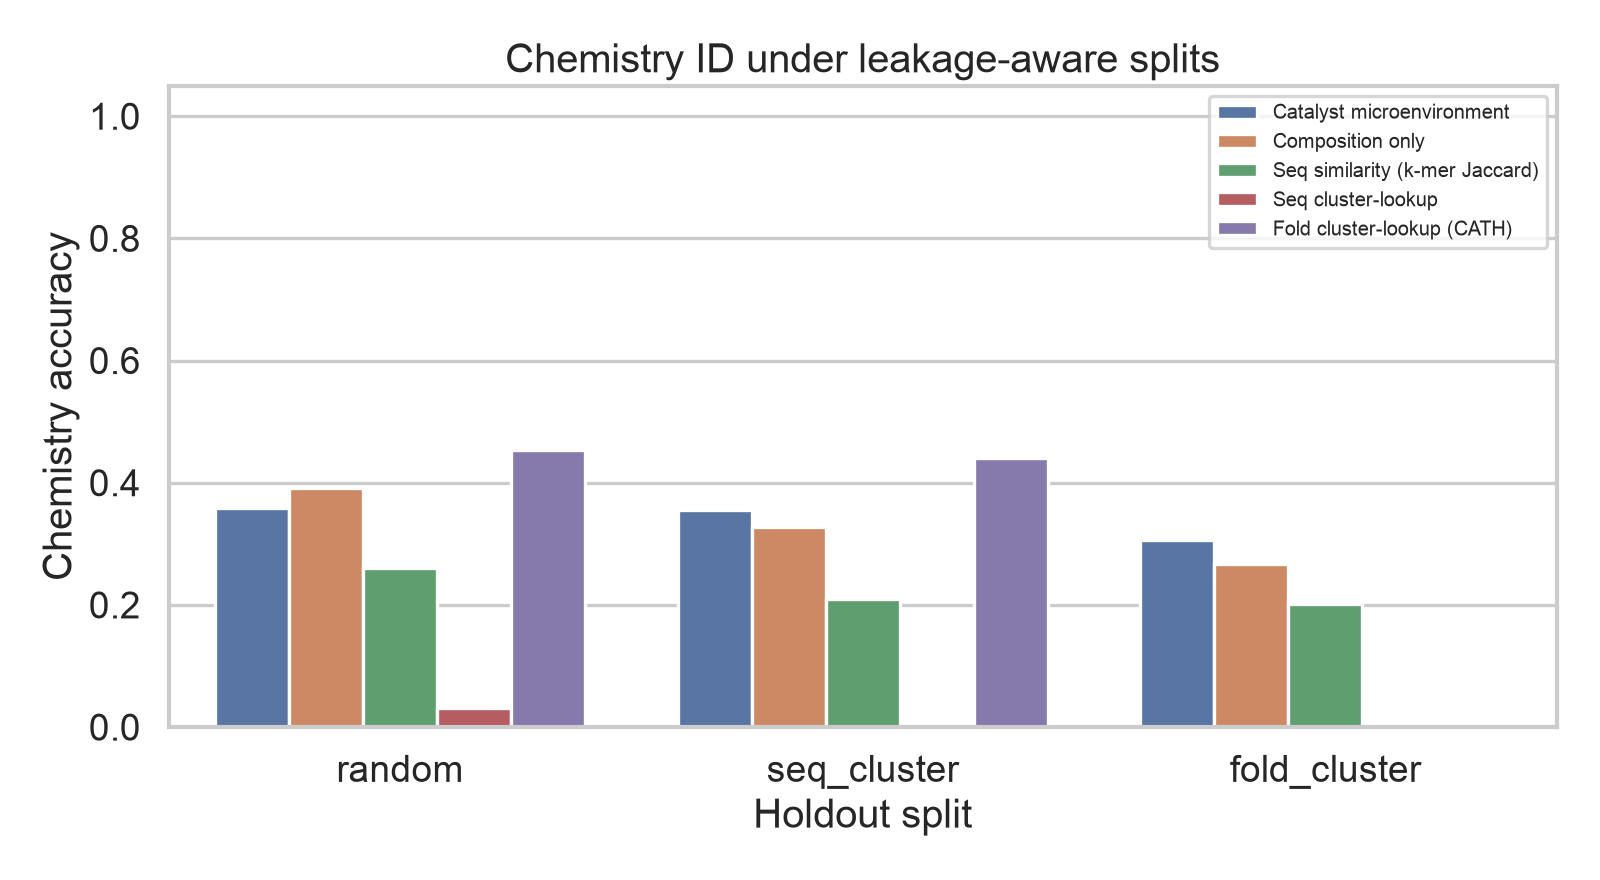
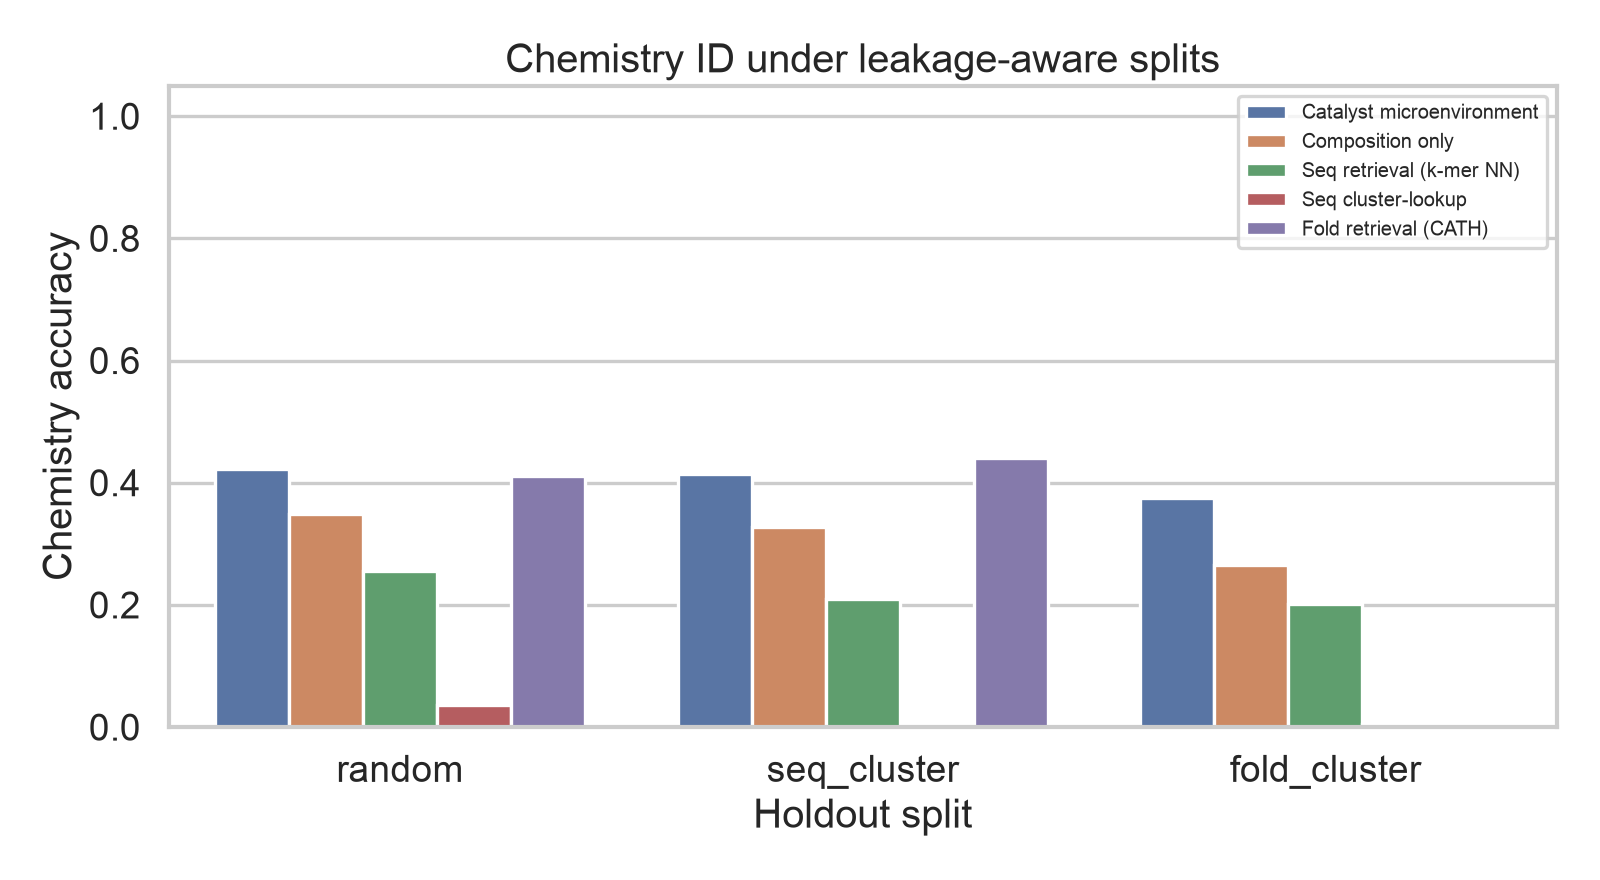
testing

diff --git a/tests/test_external_baselines.py b/tests/test_external_baselines.py
@@ -1,0 +1,39 @@
+"""Unit tests for retrieval chemistry transfer (no mmseqs/foldseek required)."""
+
+from __future__ import annotations
+
+import numpy as np
+import pandas as pd
+
+from catalyst_atlas.eval.external_baselines import retrieval_chemistry_transfer, tool_status
+
+
+def test_tool_status_keys():
+    status = tool_status()
+    assert "mmseqs" in status
+    assert "foldseek" in status
+
+
+def test_retrieval_chemistry_transfer():
+    meta = pd.DataFrame(
+        {
+            "enzyme_id": ["A", "B", "C", "D"],
+            "chemistry_family": ["hydrolysis", "hydrolysis", "transfer", "transfer"],
+        }
+    )
+    hits = pd.DataFrame(
+        {
+            "query": ["C", "C", "D"],
+            "target": ["A", "B", "B"],
+            "score": [10.0, 50.0, 5.0],
+        }
+    )
+    train_idx = np.array([0, 1])
+    test_idx = np.array([2, 3])
+    preds = retrieval_chemistry_transfer(
+        hits, meta, train_idx, test_idx, label_col="chemistry_family"
+    )
+    # C → best train hit B (score 50) → hydrolysis
+    assert preds[0] == "hydrolysis"
+    # D → best train hit B → hydrolysis
+    assert preds[1] == "hydrolysis"

diff --git a/tests/test_mcsa_structures.py b/tests/test_mcsa_structures.py
@@ -35,17 +35,47 @@ def test_build_site_from_structure():
         {"chain": "A", "resnum": 35, "aa": "H"},
         {"chain": "A", "resnum": 60, "aa": "S"},
     ]
-    catalytic, neighbors = build_site_from_structure(_MINI_PDB, specs)
+    catalytic, neighbors, ligands, tags = build_site_from_structure(_MINI_PDB, specs)
     assert len(catalytic) == 3
     assert "".join(r["aa"] for r in catalytic) == "DHS"
     assert any(n["aa"] == "N" for n in neighbors)
     assert not any(n["resnum"] == 300 for n in neighbors)  # far LEU excluded
+    assert tags == "none"
+    assert ligands == []
 
 
 def test_chemistry_from_ec_and_pattern():
     assert chemistry_from_ec("3.4.21.1") == "hydrolase"
     assert chemistry_from_ec("1.1.1.1") == "oxidoreductase"
     assert pattern_from_residues(["S", "H", "D"]) == "Ser-His-Asp"
+
+
+def test_ontology_labels_and_cofactors():
+    from catalyst_atlas.data.cofactors import cofactors_near_site
+    from catalyst_atlas.data.labels import annotate_chemistry
+
+    ann = annotate_chemistry(
+        ec_number="1.1.1.1",
+        catalytic_aas=["D", "H", "D"],
+        cofactor_tags="NAD",
+    )
+    assert ann["chemistry_family"] == "oxidation-reduction"
+    assert ann["mechanistic_pattern"] == "hydride transfer"
+
+    pdb = _MINI_PDB + (
+        "HETATM  100  C1  NAD A 401      11.000  21.000  30.500  1.00 20.00           C\n"
+        "HETATM  101  ZN   ZN A 402      10.500  20.500  30.200  1.00 20.00          ZN\n"
+    )
+    catalytic = [
+        {"chain": "A", "resnum": 7, "aa": "D", "xyz": [10.0, 20.0, 30.0]},
+        {"chain": "A", "resnum": 35, "aa": "H", "xyz": [13.5, 20.2, 30.1]},
+    ]
+    ligs, tags = cofactors_near_site(pdb, catalytic, radius=8.0, site_residues=catalytic)
+    assert "NAD" in tags and "Zn" in tags
+    assert len(ligs) >= 2
+    zn = next(x for x in ligs if x["name"] == "Zn")
+    assert "coordination" in zn
+    assert zn["coordination"]["n_coord"] >= 1
 
 
 def test_cath_and_seq_clustering():

diff --git a/tests/test_ontology.py b/tests/test_ontology.py
@@ -1,10 +1,24 @@
-from catalyst_atlas.data.ontology import chemistry_classes, families
+from catalyst_atlas.data.ontology import (
+    chemistry_classes,
+    chemistry_families,
+    families,
+    mechanistic_patterns,
+)
 
 
 def test_ontology_has_chemistry_classes():
     classes = chemistry_classes()
     assert "hydrolase" in classes
     assert "oxidoreductase" in classes
+
+
+def test_ontology_v02_families_and_mechanisms():
+    fams = chemistry_families()
+    assert "hydrolysis" in fams
+    assert "oxidation-reduction" in fams
+    mechs = mechanistic_patterns()
+    assert "metal activation" in mechs
+    assert "hydride transfer" in mechs
 
 
 def test_families_have_catalytic_residues():

diff --git a/reports/case_studies/README.md b/reports/case_studies/README.md
@@ -1,0 +1,117 @@
+# Catalyst Atlas — three chemistry case studies
+
+Real M-CSA reaction centers. Not a leaderboard — three questions enzyme chemists care about.
+
+# Case study: Same fold, different chemistry
+
+**Question:** Can Catalyst distinguish chemistry within a structural family?
+
+# Same fold, different chemistry
+
+**Query enzyme:** `MCSA00034` — catechol 2,3-dioxygenase
+**Context:** Shared fold cluster 19 (CATH topology neighborhood)
+
+| Method | Inferred chemistry |
+|---|---|
+| Sequence retrieval baseline | `no confident transfer` |
+| Fold / CATH retrieval baseline | `elimination` |
+| **Catalyst Atlas** | `oxidation-reduction` |
+
+### Chemistry card
+- **Chemistry family:** oxidation-reduction
+- **Mechanistic pattern:** metal activation
+- **Catalytic residues:** His-Asp-Asp-His-His
+- **Cofactor / metal:** Fe
+- **Confidence:** 1.00
+
+### Evidence (top catalytic neighbors)
+- `MCSA00130` — oxidation-reduction / metal activation (cof=Fe; d=6.927)
+- `MCSA00685` — oxidation-reduction / metal activation (cof=Fe; d=7.039)
+- `MCSA00129` — oxidation-reduction / metal activation (cof=Fe; d=7.156)
+- `MCSA00134` — oxidation-reduction / metal activation (cof=Fe; d=7.282)
+- `MCSA00672` — oxidation-reduction / metal activation (cof=Fe; d=7.826)
+
+**Ground truth:** oxidation-reduction / metal activation
+**Catalyst Atlas correct:** yes
+
+> Representation is the **catalytic microenvironment** (reaction-center residues, cofactors/metals, geometry, first shell) — not whole-protein fold similarity or pocket shape alone.
+
+**Takeaway:** Fold neighborhood mixes chemistries; catalytic microenvironment recovers the reaction-center chemistry.
+
+---
+
+# Case study: Different fold, same chemistry
+
+**Question:** Can Catalyst detect convergent chemistry across folds?
+
+# Different fold, same chemistry
+
+**Query enzyme:** `MCSA00176` — thermolysin
+**Context:** Query fold_cluster=95; neighbors span folds [5, 14, 91, 148]
+
+| Method | Inferred chemistry |
+|---|---|
+| Sequence retrieval baseline | `no confident transfer` |
+| Fold / CATH retrieval baseline | `no confident transfer` |
+| **Catalyst Atlas** | `hydrolysis` |
+
+### Chemistry card
+- **Chemistry family:** hydrolysis
+- **Mechanistic pattern:** metal activation
+- **Catalytic residues:** His-Asp-Lys
+- **Cofactor / metal:** Zn
+- **Confidence:** 1.00
+
+### Evidence (top catalytic neighbors)
+- `MCSA00159` — hydrolysis / metal activation (cof=Zn; d=5.183)
+- `MCSA00623` — hydrolysis / metal activation (cof=Zn; d=5.249)
+- `MCSA00168` — hydrolysis / metal activation (cof=Zn; d=5.263)
+- `MCSA00167` — hydrolysis / metal activation (cof=Zn; d=5.547)
+- `MCSA00170` — hydrolysis / metal activation (cof=Zn; d=5.587)
+
+**Ground truth:** hydrolysis / metal activation
+**Catalyst Atlas correct:** yes
+
+> Representation is the **catalytic microenvironment** (reaction-center residues, cofactors/metals, geometry, first shell) — not whole-protein fold similarity or pocket shape alone.
+
+**Takeaway:** Catalytic neighbors share chemistry family despite different fold neighborhoods — microenvironment captures convergent reaction logic.
+
+---
+
+# Case study: Cofactor-aware chemistry hypothesis
+
+**Question:** Can Catalyst provide a plausible chemistry hypothesis from the reaction center?
+
+# Cofactor-aware chemistry hypothesis
+
+**Query enzyme:** `MCSA00661` — arylsulfatase
+**Context:** Site cofactors/metals: Ca
+
+| Method | Inferred chemistry |
+|---|---|
+| Sequence retrieval baseline | `no confident transfer` |
+| Fold / CATH retrieval baseline | `hydrolysis` |
+| **Catalyst Atlas** | `hydrolysis` |
+
+### Chemistry card
+- **Chemistry family:** hydrolysis
+- **Mechanistic pattern:** metal activation
+- **Catalytic residues:** Asp-Arg-His-Asn
+- **Cofactor / metal:** Ca, Mg
+- **Confidence:** 1.00
+
+### Evidence (top catalytic neighbors)
+- `MCSA00951` — hydrolysis / metal activation (cof=Ca; d=4.641)
+- `MCSA00686` — hydrolysis / metal activation (cof=Ca; d=7.031)
+- `MCSA00165` — hydrolysis / metal activation (cof=Ca; d=7.134)
+- `MCSA00180` — hydrolysis / metal activation (cof=Ca,Mg; d=7.165)
+- `MCSA00019` — hydrolysis / metal activation (cof=Ca; d=7.276)
+
+**Ground truth:** hydrolysis / metal activation
+**Catalyst Atlas correct:** yes
+
+> Representation is the **catalytic microenvironment** (reaction-center residues, cofactors/metals, geometry, first shell) — not whole-protein fold similarity or pocket shape alone.
+
+**Takeaway:** Cofactor/metal context in the microenvironment supports a chemistry hypothesis an enzymologist would recognize — not an EC digit alone.
+
+---

diff --git a/reports/mcsa_v02_n959_results.md b/reports/mcsa_v02_n959_results.md
@@ -1,0 +1,46 @@
+# Catalyst Atlas v0.2 — M-CSA n=959
+
+Chemistry-aware reaction-center representations on curated M-CSA sites.
+
+## What changed vs residue-only baseline
+
+| Upgrade | Detail |
+|---|---|
+| Cofactors / metals | PDB HETATM within 8 Å of catalytic core (324 / 959 sites tagged) |
+| Ontology labels | `chemistry_family` + `mechanistic_pattern` (not EC-digit spam) |
+| Feature dim | 84 → 91 (expanded cofactor vocabulary) |
+
+Top site tags: Mg, Zn, Mn, Ca, PLP, Fe, heme, ATP+Mg, FMN, …
+
+## Chemistry accuracy (`chemistry_family`)
+
+| Split | Catalyst microenv | Seq retrieval (k-mer NN) | Seq cluster-lookup | Fold retrieval (CATH) |
+|---|---:|---:|---:|---:|
+| random | **0.422** | 0.255 | 0.036 | 0.411 |
+| seq_cluster | **0.414** | 0.210 | 0.000 | 0.441 |
+| fold_cluster | **0.375** | 0.202 | 0.004 | 0.000 |
+
+Majority-class floor ≈ 0.32 (hydrolysis). Scaler fit on train only.
+
+## Case studies
+
+Generated with `cat-cases` → [`reports/case_studies/`](case_studies/):
+
+1. **Same fold, different chemistry** — `MCSA00034` (oxidation-reduction, Fe)
+2. **Different fold, same chemistry** — `MCSA00176` (hydrolysis, Zn)
+3. **Cofactor-aware hypothesis** — `MCSA00661` (hydrolysis, Ca)
+
+## Reproduce
+
+```bash
+cat-download --public --n-enzymes 1000
+cat-enrich
+cat-sites && cat-embed && cat-eval
+cat-cases
+```
+
+## Still open for v0.2+
+
+- Wire MMseqs2 / Foldseek hit tables into chemistry-transfer baselines when binaries are present
+- Richer cofactor geometry (coordination shell, not just presence)
+- Keep deep models deferred until they beat this engineered baseline on hard holdouts

diff --git a/reports/case_studies/case_1_same_fold__different_chemistry.md b/reports/case_studies/case_1_same_fold__different_chemistry.md
@@ -1,0 +1,35 @@
+# Case study: Same fold, different chemistry
+
+**Question:** Can Catalyst distinguish chemistry within a structural family?
+
+# Same fold, different chemistry
+
+**Query enzyme:** `MCSA00034` — catechol 2,3-dioxygenase
+**Context:** Shared fold cluster 19 (CATH topology neighborhood)
+
+| Method | Inferred chemistry |
+|---|---|
+| Sequence retrieval baseline | `no confident transfer` |
+| Fold / CATH retrieval baseline | `elimination` |
+| **Catalyst Atlas** | `oxidation-reduction` |
+
+### Chemistry card
+- **Chemistry family:** oxidation-reduction
+- **Mechanistic pattern:** metal activation
+- **Catalytic residues:** His-Asp-Asp-His-His
+- **Cofactor / metal:** Fe
+- **Confidence:** 1.00
+
+### Evidence (top catalytic neighbors)
+- `MCSA00130` — oxidation-reduction / metal activation (cof=Fe; d=6.927)
+- `MCSA00685` — oxidation-reduction / metal activation (cof=Fe; d=7.039)
+- `MCSA00129` — oxidation-reduction / metal activation (cof=Fe; d=7.156)
+- `MCSA00134` — oxidation-reduction / metal activation (cof=Fe; d=7.282)
+- `MCSA00672` — oxidation-reduction / metal activation (cof=Fe; d=7.826)
+
+**Ground truth:** oxidation-reduction / metal activation
+**Catalyst Atlas correct:** yes
+
+> Representation is the **catalytic microenvironment** (reaction-center residues, cofactors/metals, geometry, first shell) — not whole-protein fold similarity or pocket shape alone.
+
+**Takeaway:** Fold neighborhood mixes chemistries; catalytic microenvironment recovers the reaction-center chemistry.

diff --git a/reports/case_studies/case_2_different_fold__same_chemistry.md b/reports/case_studies/case_2_different_fold__same_chemistry.md
@@ -1,0 +1,35 @@
+# Case study: Different fold, same chemistry
+
+**Question:** Can Catalyst detect convergent chemistry across folds?
+
+# Different fold, same chemistry
+
+**Query enzyme:** `MCSA00176` — thermolysin
+**Context:** Query fold_cluster=95; neighbors span folds [5, 14, 91, 148]
+
+| Method | Inferred chemistry |
+|---|---|
+| Sequence retrieval baseline | `no confident transfer` |
+| Fold / CATH retrieval baseline | `no confident transfer` |
+| **Catalyst Atlas** | `hydrolysis` |
+
+### Chemistry card
+- **Chemistry family:** hydrolysis
+- **Mechanistic pattern:** metal activation
+- **Catalytic residues:** His-Asp-Lys
+- **Cofactor / metal:** Zn
+- **Confidence:** 1.00
+
+### Evidence (top catalytic neighbors)
+- `MCSA00159` — hydrolysis / metal activation (cof=Zn; d=5.183)
+- `MCSA00623` — hydrolysis / metal activation (cof=Zn; d=5.249)
+- `MCSA00168` — hydrolysis / metal activation (cof=Zn; d=5.263)
+- `MCSA00167` — hydrolysis / metal activation (cof=Zn; d=5.547)
+- `MCSA00170` — hydrolysis / metal activation (cof=Zn; d=5.587)
+
+**Ground truth:** hydrolysis / metal activation
+**Catalyst Atlas correct:** yes
+
+> Representation is the **catalytic microenvironment** (reaction-center residues, cofactors/metals, geometry, first shell) — not whole-protein fold similarity or pocket shape alone.
+
+**Takeaway:** Catalytic neighbors share chemistry family despite different fold neighborhoods — microenvironment captures convergent reaction logic.

diff --git a/reports/case_studies/case_3_cofactor_aware_chemistry_hypothesis.md b/reports/case_studies/case_3_cofactor_aware_chemistry_hypothesis.md
@@ -1,0 +1,35 @@
+# Case study: Cofactor-aware chemistry hypothesis
+
+**Question:** Can Catalyst provide a plausible chemistry hypothesis from the reaction center?
+
+# Cofactor-aware chemistry hypothesis
+
+**Query enzyme:** `MCSA00661` — arylsulfatase
+**Context:** Site cofactors/metals: Ca
+
+| Method | Inferred chemistry |
+|---|---|
+| Sequence retrieval baseline | `no confident transfer` |
+| Fold / CATH retrieval baseline | `hydrolysis` |
+| **Catalyst Atlas** | `hydrolysis` |
+
+### Chemistry card
+- **Chemistry family:** hydrolysis
+- **Mechanistic pattern:** metal activation
+- **Catalytic residues:** Asp-Arg-His-Asn
+- **Cofactor / metal:** Ca, Mg
+- **Confidence:** 1.00
+
+### Evidence (top catalytic neighbors)
+- `MCSA00951` — hydrolysis / metal activation (cof=Ca; d=4.641)
+- `MCSA00686` — hydrolysis / metal activation (cof=Ca; d=7.031)
+- `MCSA00165` — hydrolysis / metal activation (cof=Ca; d=7.134)
+- `MCSA00180` — hydrolysis / metal activation (cof=Ca,Mg; d=7.165)
+- `MCSA00019` — hydrolysis / metal activation (cof=Ca; d=7.276)
+
+**Ground truth:** hydrolysis / metal activation
+**Catalyst Atlas correct:** yes
+
+> Representation is the **catalytic microenvironment** (reaction-center residues, cofactors/metals, geometry, first shell) — not whole-protein fold similarity or pocket shape alone.
+
+**Takeaway:** Cofactor/metal context in the microenvironment supports a chemistry hypothesis an enzymologist would recognize — not an EC digit alone.